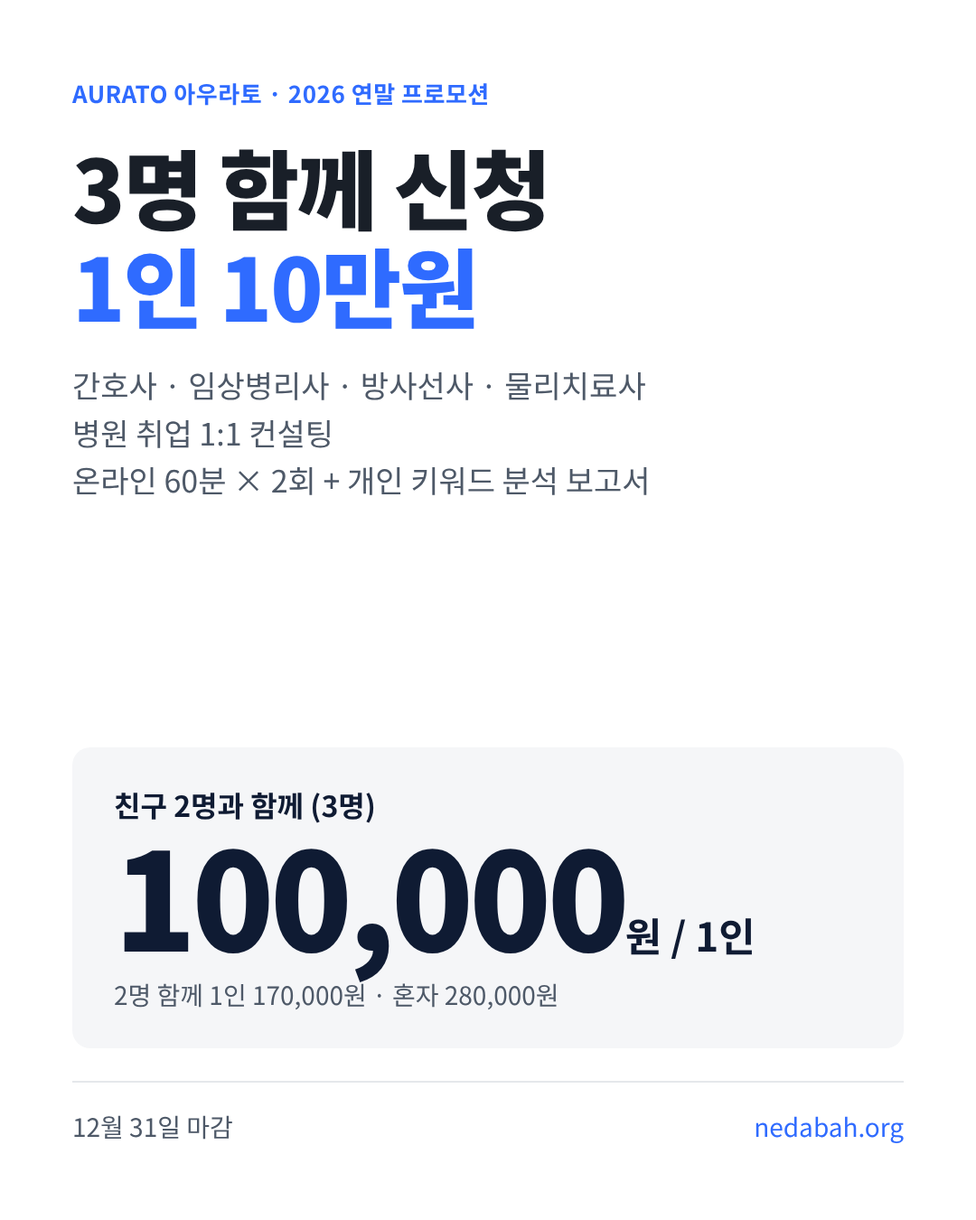
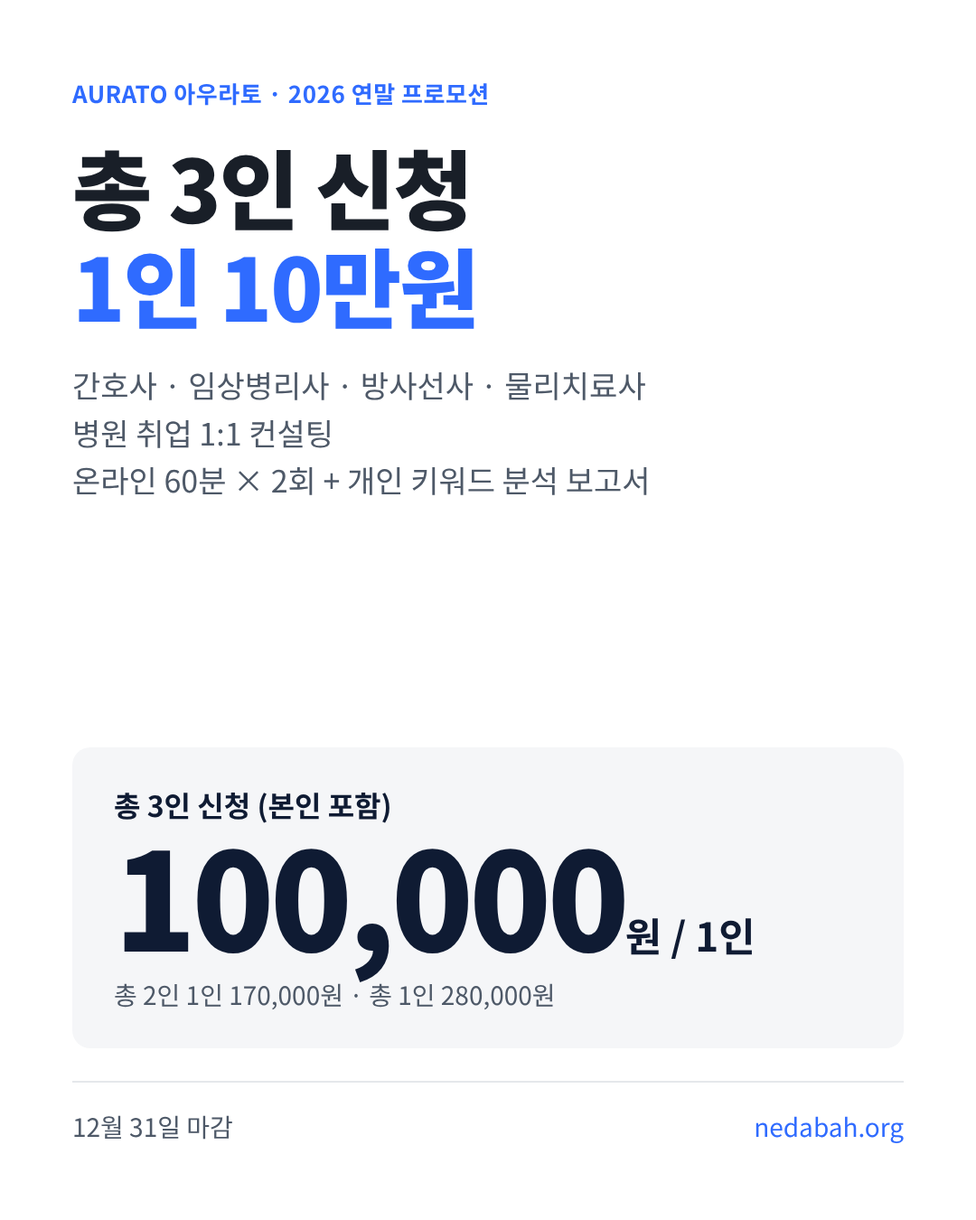
가격 표기를 총 1인·총 2인·총 3인으로 통일, 수입 전략 분석 문서 (#43)
- 모든 페이지·신청서·이미지의 가격 단계 표기를 '총 N인 신청'으로 통일하고 본인 포함 인원임을 명시
- docs/수입-전략-2026-11.md: 단계별 시간당 수입, 총 3인 합계가 총 2인보다 적은 문제,
  가격 조정안, 3단 상품 구성, 기관 중심 운영, 월 수입 시나리오
- tools/check-numbers.py: 바뀐 표기에 맞게 패턴 수정

Claude-Session: https://claude.ai/code/session_01SrQpoat8LbiUAsr2rLYRo8

Changed region(s): [[0.0611, 0.1244, 0.5806, 0.1867], [0.1222, 0.8089, 0.5806, 0.84], [0.1222, 0.6533, 0.3972, 0.6844]]

diff --git a/index.html b/index.html
@@ -4,7 +4,7 @@
 <meta charset="UTF-8">
 <meta name="viewport" content="width=device-width, initial-scale=1.0">
 <title>아우라토 AURATO | 병원 취업 1:1 컨설팅 — 자기소개서 분석·면접 연습 2회, 보고서 제공</title>
-<meta name="description" content="아우라토(AURATO)는 간호사·임상병리사·방사선사·물리치료사 등 병원 취업을 위한 온라인 1:1 컨설팅입니다. 자기소개서 분석, 면접 연습, 키워드 분석 보고서까지 2회(2시간). 연말 프로모션 3명 함께 1인 10만원. 운영 네다바웨이.">
+<meta name="description" content="아우라토(AURATO)는 간호사·임상병리사·방사선사·물리치료사 등 병원 취업을 위한 온라인 1:1 컨설팅입니다. 자기소개서 분석, 면접 연습, 키워드 분석 보고서까지 2회(2시간). 연말 프로모션 총 3인 신청 1인 10만원. 운영 네다바웨이.">
 <meta name="keywords" content="아우라토, AURATO, 병원 취업 컨설팅, 간호사 자소서 첨삭, 간호사 면접 컨설팅, 임상병리사 취업, 방사선사 취업, 물리치료사 취업, 국시 후 취업 준비, 네다바웨이">
 <link rel="canonical" href="https://nedabah.org/">
 <link rel="alternate" hreflang="ko" href="https://nedabah.org/">
@@ -14,7 +14,7 @@
 <meta property="og:site_name" content="아우라토 AURATO">
 <meta property="og:url" content="https://nedabah.org/">
 <meta property="og:title" content="아우라토 AURATO — 병원 취업 1:1 컨설팅">
-<meta property="og:description" content="온라인 1:1 2회 + 키워드 분석 보고서. 연말 프로모션 3명 함께 1인 10만원, 12월 31일까지.">
+<meta property="og:description" content="온라인 1:1 2회 + 키워드 분석 보고서. 연말 프로모션 총 3인 신청 1인 10만원, 12월 31일까지.">
 <meta property="og:image" content="https://nedabah.org/og/consulting.png">
 <meta property="og:image:width" content="1200">
 <meta property="og:image:height" content="630">
@@ -39,11 +39,11 @@
 {"@context":"https://schema.org","@type":"FAQPage","mainEntity":[
  {"@type":"Question","name":"아우라토는 무엇인가요?","acceptedAnswer":{"@type":"Answer","text":"병원 취업을 준비하는 간호사·임상병리사·방사선사·물리치료사 등을 위한 온라인 1:1 컨설팅입니다. 자기소개서를 분석하고 수정한 뒤 면접 연습까지 2회(2시간) 진행하고, 키워드 분석 보고서를 드립니다. 네다바웨이가 운영합니다."}},
  {"@type":"Question","name":"시중 첨삭과 무엇이 다른가요?","acceptedAnswer":{"@type":"Answer","text":"문항 단위로 글만 고치는 첨삭과 달리, 지원서 전체를 지원 기관 자료와 비교해 결함을 찾고, 화상으로 60분씩 2회 진행하며, 면접 연습과 키워드 분석 보고서까지 포함합니다."}},
- {"@type":"Question","name":"비용은 얼마인가요?","acceptedAnswer":{"@type":"Answer","text":"2026년 12월 31일까지 연말 프로모션으로 3명이 함께 신청하면 1인 10만원, 2명은 1인 17만원, 혼자는 28만원입니다(2회·2시간, 보고서 포함). 계좌이체로 결제하고 현금영수증을 발행합니다."}}]}
+ {"@type":"Question","name":"비용은 얼마인가요?","acceptedAnswer":{"@type":"Answer","text":"2026년 12월 31일까지 연말 프로모션으로 총 3인 신청은 1인 10만원, 총 2인 신청은 1인 17만원, 총 1인 신청은 28만원입니다(2회·2시간, 보고서 포함). 계좌이체로 결제하고 현금영수증을 발행합니다."}}]}
 </script>
 </head>
 <body>
-<div class="ribbon"><b>연말 프로모션</b> · 온라인 1:1 2회 + 키워드 분석 보고서 · 3명 함께 <b>1인 10만원</b> · <span id="promoLeft">12월 31일 마감</span></div>
+<div class="ribbon"><b>연말 프로모션</b> · 온라인 1:1 2회 + 키워드 분석 보고서 · 총 3인 신청 <b>1인 10만원</b> · <span id="promoLeft">12월 31일 마감</span></div>
 <header class="cbar">
   <div class="w">
     <a class="brand" href="/" aria-label="AURATO 아우라토 홈">AURA<b>TO</b><small>아우라토 · 취업 컨설팅</small></a>
@@ -81,9 +81,9 @@
         </div>
         <div><label>신청 방식</label>
           <div class="pick">
-            <label><input type="radio" name="plan" value="3명 함께 · 1인 100,000원" data-memo="요금" checked><span>3명 10만원</span></label>
-            <label><input type="radio" name="plan" value="2명 함께 · 1인 170,000원" data-memo="요금"><span>2명 17만원</span></label>
-            <label><input type="radio" name="plan" value="혼자 · 280,000원" data-memo="요금"><span>혼자 28만원</span></label>
+            <label><input type="radio" name="plan" value="총 3인 신청 · 1인 100,000원" data-memo="요금" checked><span>총 3인 · 1인 10만원</span></label>
+            <label><input type="radio" name="plan" value="총 2인 신청 · 1인 170,000원" data-memo="요금"><span>총 2인 · 1인 17만원</span></label>
+            <label><input type="radio" name="plan" value="총 1인 신청 · 280,000원" data-memo="요금"><span>총 1인 · 28만원</span></label>
           </div>
         </div>
         <label class="agree"><input type="checkbox" required data-memo="개인정보 동의"> 상담·일정 안내·현금영수증 발행을 위해 이름과 휴대폰을 수집하는 데 동의합니다. 종료 후 1년 보관 뒤 파기합니다. <a href="/privacy/" target="_blank" rel="noopener">처리방침</a></label>
@@ -197,7 +197,7 @@
     <div class="grid4">
       <div class="card"><div class="big">전 문항</div><h3>문항별 완성본</h3><p>제출할 문항 전체를 수정합니다. 문항 수로 가격을 매기지 않습니다.</p></div>
       <div class="card"><div class="big">230,000원</div><h3>시중 조합가(계산 예시)</h3><p>문항 첨삭 10개(개당 15,000원)와 모의면접 60분(30분 40,000원)을 따로 구매한 금액.</p></div>
-      <div class="card"><div class="big">100,000원</div><h3>아우라토 3명 신청가</h3><p>문항 10개 기준 시중 조합가보다 130,000원 낮습니다(57%).</p></div>
+      <div class="card"><div class="big">100,000원</div><h3>아우라토 총 3인 신청가</h3><p>문항 10개 기준 시중 조합가보다 130,000원 낮습니다(57%).</p></div>
       <div class="card"><div class="big">1:1</div><h3>가격과 관계없이 같은 진행</h3><p>10만원 신청자도 각자 1:1로 60분씩 2회 진행하고 같은 구성의 보고서를 받습니다.</p></div>
     </div>
     <p class="src">시중 단가는 2026년 11월 재능마켓 공개 판매 페이지 기준입니다. <a href="/consulting/process/">실제 진행 과정과 계산 근거 보기</a></p>
@@ -208,19 +208,19 @@
   <div class="w">
     <div class="lab">Year-End Promotion · ~2026.12.31</div>
     <h2>연말 프로모션 가격</h2>
-    <p class="sub">2회·2시간, 키워드 분석 보고서 포함. 함께 신청한 친구도 같은 금액입니다. 3명이 함께 신청하면 혼자 신청할 때보다 1인당 180,000원이 낮습니다. 프로모션 가격은 2026년 12월 31일 신청분까지 적용합니다. 컨설팅은 각자 1:1로 진행합니다.</p>
+    <p class="sub">2회·2시간, 키워드 분석 보고서 포함. 인원은 본인을 포함한 총 신청 인원입니다. 함께 신청한 친구도 같은 금액입니다. 총 3인으로 신청하면 총 1인으로 신청할 때보다 1인당 180,000원이 낮습니다. 프로모션 가격은 2026년 12월 31일 신청분까지 적용합니다. 컨설팅은 각자 1:1로 진행합니다.</p>
     <h3 style="margin:.2rem 0 .2rem">시중 가격과 비교</h3>
-    <div class="bars" role="img" aria-label="시중 가격 비교: 시중 1:1 자소서 첨삭 과정 30만원, 시중 문항 첨삭 10개와 모의면접 60분 조합 23만원, 시중 간호 전문 1:1 첨삭 8만 8천원(면접 미포함), 아우라토 3명 신청 10만원">
+    <div class="bars" role="img" aria-label="시중 가격 비교: 시중 1:1 자소서 첨삭 과정 30만원, 시중 문항 첨삭 10개와 모의면접 60분 조합 23만원, 시중 간호 전문 1:1 첨삭 8만 8천원(면접 미포함), 아우라토 총 3인 신청 1인 10만원">
       <div class="bar"><div class="n">취업학원 1:1 자소서 과정<small>면접 미포함</small></div><div class="t"><i style="width:100%"></i><b>300,000원</b></div></div>
       <div class="bar"><div class="n">문항 첨삭 10개 + 모의면접 60분<small>재능마켓에서 따로 구매</small></div><div class="t"><i style="width:76.7%"></i><b>230,000원</b></div></div>
-      <div class="bar us"><div class="n">아우라토 3명 함께 신청<small>화상 2회 + 면접 연습 + 개인 키워드 분석 보고서</small></div><div class="t"><i style="width:33.3%"></i><b>100,000원</b></div></div>
+      <div class="bar us"><div class="n">아우라토 총 3인 신청<small>화상 2회 + 면접 연습 + 개인 키워드 분석 보고서</small></div><div class="t"><i style="width:33.3%"></i><b>100,000원</b></div></div>
     </div>
     <p><span class="save">시중 조합가보다 130,000원 낮음(57%)</span> <span class="save" style="background:var(--ink)">취업학원 과정보다 200,000원 낮음(67%)</span></p>
     <p class="src">시중 가격은 2026년 11월 각 서비스의 공개 판매 페이지 표시가입니다. 문항 첨삭 개당 15,000원(800자 기준), 모의면접 30분 40,000원, 취업학원 1:1 자소서 컨설팅 300,000원. 판매자와 조건에 따라 다릅니다.</p>
     <div class="tickets">
-      <div class="tk"><div class="who">혼자 신청</div><div class="now">280,000<small>원</small></div><ul><li>2회·2시간 1:1</li><li>키워드 분석 보고서</li></ul><a class="btn g" href="#start">신청하기</a></div>
-      <div class="tk"><div class="who">친구 1명과 함께 (2명)</div><div class="now">170,000<small>원 / 1인</small></div><span class="off">혼자 신청보다 110,000원 낮음(39%)</span><ul><li>2명 모두 같은 금액</li><li>각자 1:1, 각자 보고서</li></ul><a class="btn g" href="#start">신청하기</a></div>
-      <div class="tk best"><span class="tag">BEST · 최저가</span><div class="who">친구 2명과 함께 (3명)</div><div class="now">100,000<small>원 / 1인</small></div><span class="off">혼자 신청보다 180,000원 낮음(64%)</span><ul><li>3명 모두 같은 금액</li><li>각자 1:1, 각자 보고서</li></ul><a class="btn p" href="#start">3명이 함께 신청</a></div>
+      <div class="tk"><div class="who">총 1인 신청</div><div class="now">280,000<small>원</small></div><ul><li>2회·2시간 1:1</li><li>키워드 분석 보고서</li></ul><a class="btn g" href="#start">신청하기</a></div>
+      <div class="tk"><div class="who">총 2인 신청</div><div class="now">170,000<small>원 / 1인</small></div><span class="off">총 1인 신청보다 110,000원 낮음(39%)</span><ul><li>2명 모두 같은 금액</li><li>각자 1:1, 각자 보고서</li></ul><a class="btn g" href="#start">신청하기</a></div>
+      <div class="tk best"><span class="tag">BEST · 최저가</span><div class="who">총 3인 신청</div><div class="now">100,000<small>원 / 1인</small></div><span class="off">총 1인 신청보다 180,000원 낮음(64%)</span><ul><li>3명 모두 같은 금액</li><li>각자 1:1, 각자 보고서</li></ul><a class="btn p" href="#start">총 3인으로 신청</a></div>
     </div>
     <div style="text-align:center;margin-top:1rem"><button type="button" class="btn g" data-share style="cursor:pointer;font:inherit;font-weight:800">함께 신청할 친구에게 이 페이지 보내기</button> <span data-share-done hidden style="margin-left:.5rem;color:var(--ok);font-weight:700">링크를 복사했습니다</span></div>
     <div class="count" data-countdown aria-label="프로모션 마감까지 남은 시간"><div><b data-d>--</b><small>DAYS</small></div><div><b data-h>--</b><small>HRS</small></div><div><b data-m>--</b><small>MIN</small></div><div><b data-s>--</b><small>SEC</small></div></div>
@@ -259,7 +259,7 @@
 <div id="promoPop" role="dialog" aria-modal="true" aria-labelledby="promoPopTitle" style="position:fixed;inset:0;z-index:9999;background:rgba(8,14,30,.62);display:none;place-items:center;padding:16px">
   <div style="position:relative;width:min(400px,100%);max-height:92vh;overflow:auto;background:#fff;border-radius:18px;box-shadow:0 30px 70px rgba(0,0,0,.35)">
     <button type="button" data-pop-close aria-label="닫기" style="position:absolute;top:10px;right:10px;width:36px;height:36px;border:0;border-radius:50%;background:rgba(255,255,255,.9);font-size:20px;cursor:pointer;z-index:2">×</button>
-    <a href="#start" data-pop-go><img src="/og/promo-1080x1350.png" width="1080" height="1350" loading="lazy" alt="아우라토 연말 프로모션: 3명 함께 신청 시 1인 10만원, 12월 31일 마감" style="display:block;width:100%;height:auto"></a>
+    <a href="#start" data-pop-go><img src="/og/promo-1080x1350.png" width="1080" height="1350" loading="lazy" alt="아우라토 연말 프로모션: 총 3인 신청 시 1인 10만원, 12월 31일 마감" style="display:block;width:100%;height:auto"></a>
     <div style="padding:14px 16px 16px">
       <p id="promoPopTitle" style="margin:0 0 10px;font-weight:800;color:#0f1b33">2026 연말 프로모션 · <span data-left>12월 31일 마감</span></p>
       <div style="display:flex;gap:8px">
@@ -271,7 +271,7 @@
   </div>
 </div>
 <div id="promoCard" hidden style="position:fixed;left:10px;right:10px;bottom:70px;z-index:55;background:#191f28;color:#fff;border-radius:14px;padding:12px 44px 12px 14px;box-shadow:0 12px 30px rgba(0,0,0,.3);font-size:.92rem">
-  <b style="color:#8fb2ff">연말 프로모션</b> 3명 함께 1인 10만원 · <span data-left>12/31 마감</span> <a href="#start" style="color:#fff;font-weight:800;margin-left:4px">신청 →</a>
+  <b style="color:#8fb2ff">연말 프로모션</b> 총 3인 신청 1인 10만원 · <span data-left>12/31 마감</span> <a href="#start" style="color:#fff;font-weight:800;margin-left:4px">신청 →</a>
   <button type="button" data-card-close aria-label="닫기" style="position:absolute;top:6px;right:8px;width:30px;height:30px;border:0;background:transparent;color:#fff;font-size:20px;cursor:pointer">×</button>
 </div>
 

diff --git a/consulting/index.html b/consulting/index.html
@@ -4,14 +4,14 @@
 <meta charset="UTF-8">
 <meta name="viewport" content="width=device-width, initial-scale=1.0">
 <title>아우라토 AURATO | 병원·보건의료 취업 1:1 컨설팅 안내</title>
-<meta name="description" content="간호사·임상병리사·방사선사·물리치료사 등 병원 전 직종 취업을 위한 1:1 컨설팅. 전문 컨설턴트의 합격 전략, AI 데이터 분석, 온라인 2회(2시간), 마지막 키워드 분석 보고서. 연말 프로모션: 친구 2명과 함께 1인 10만원.">
+<meta name="description" content="간호사·임상병리사·방사선사·물리치료사 등 병원 전 직종 취업을 위한 1:1 컨설팅. 전문 컨설턴트의 합격 전략, AI 데이터 분석, 온라인 2회(2시간), 마지막 키워드 분석 보고서. 연말 프로모션: 총 3인 신청 시 1인 10만원.">
 <meta name="keywords" content="아우라토, AURATO, 병원 취업 컨설팅, 간호사 자소서, 임상병리사 취업, 방사선사 취업, 물리치료사 취업, 상급종합병원 자기소개서, 대학병원 면접, 공공기관 보건직 면접, 전문대 보건계열 취업">
 <link rel="canonical" href="https://nedabah.org/consulting/">
 <meta property="og:type" content="website">
 <meta property="og:site_name" content="아우라토 AURATO">
 <meta property="og:url" content="https://nedabah.org/consulting/">
 <meta property="og:title" content="아우라토 — 병원·보건의료 취업 1:1 컨설팅">
-<meta property="og:description" content="연말 프로모션: 2회·2시간 친구 2명과 함께 1인 10만원. 12월 31일까지.">
+<meta property="og:description" content="연말 프로모션: 2회·2시간 총 3인 신청 시 1인 10만원. 12월 31일까지.">
 <meta property="og:image" content="https://nedabah.org/og/consulting.png">
 <meta property="og:image:width" content="1200">
 <meta property="og:image:height" content="630">
@@ -44,7 +44,7 @@
 <script type="application/ld+json">
 {"@context":"https://schema.org","@type":"FAQPage","mainEntity":[
  {"@type":"Question","name":"어떤 직종이 신청할 수 있나요?","acceptedAnswer":{"@type":"Answer","text":"병원에서 일하는 모든 직종입니다. 간호사, 임상병리사, 방사선사, 물리치료사, 작업치료사, 치과위생사, 응급구조사, 보건행정·원무, 보건의료정보관리사 등이 신청합니다."}},
- {"@type":"Question","name":"비용은 얼마인가요?","acceptedAnswer":{"@type":"Answer","text":"정가는 2회(2시간) 80만원입니다. 2026년 12월 31일까지 혼자 신청하면 28만원, 친구 1명과 함께 신청하면 1인 17만원, 친구 2명과 함께 신청하면 1인 10만원입니다. 함께 신청한 친구도 같은 금액입니다. 3명이 함께 신청하면 혼자 신청할 때보다 1인당 180,000원이 낮습니다. 프로모션 가격은 2026년 12월 31일 신청분까지 적용합니다."}},
+ {"@type":"Question","name":"비용은 얼마인가요?","acceptedAnswer":{"@type":"Answer","text":"정가는 2회(2시간) 80만원입니다. 2026년 12월 31일까지 총 1인 신청은 28만원, 총 2인 신청은 1인 17만원, 총 3인 신청은 1인 10만원입니다. 함께 신청한 친구도 같은 금액입니다. 총 3인으로 신청하면 총 1인으로 신청할 때보다 1인당 180,000원이 낮습니다. 프로모션 가격은 2026년 12월 31일 신청분까지 적용합니다."}},
  {"@type":"Question","name":"결제는 어떻게 하나요?","acceptedAnswer":{"@type":"Answer","text":"네다바웨이 명의 계좌로 이체합니다. 신청 확인 후 계좌를 문자로 안내하고, 현금영수증을 발행합니다."}},
  {"@type":"Question","name":"AI가 자기소개서를 대신 써 주나요?","acceptedAnswer":{"@type":"Answer","text":"아닙니다. AI는 지원 기관의 공식 발표와 채용 공고, 공개된 합격 자기소개서를 모아 비교하는 데 씁니다. 문장은 지원자의 경험과 단어로 쓰고, 컨설턴트가 사실을 확인합니다."}},
  {"@type":"Question","name":"학원 첨삭과 무엇이 다른가요?","acceptedAnswer":{"@type":"Answer","text":"문항 단위로 문장만 고치는 첨삭과 달리, 지원서 전체를 지원 기관 자료·공개 합격 자기소개서와 비교해 문제점을 찾습니다. 수정 방향과 수정 전·후를 키워드 분석 보고서로 제공하고, 2회차에 면접 연습을 진행합니다."}}]}
@@ -52,7 +52,7 @@
 </head>
 <body>
 
-<div class="ribbon"><b>연말 프로모션</b> · 2회·2시간 친구 2명과 함께 <b>1인 10만원</b> · <span id="promoLeft">12월 31일 마감</span></div>
+<div class="ribbon"><b>연말 프로모션</b> · 2회·2시간 총 3인 신청 <b>1인 10만원</b> · <span id="promoLeft">12월 31일 마감</span></div>
 <header class="cbar">
   <div class="w">
     <a class="brand" href="/" aria-label="AURATO 아우라토 홈">AURA<b>TO</b><small>아우라토 · 취업 컨설팅</small></a>
@@ -247,19 +247,19 @@
   <div class="w">
     <div class="lab">Year-End Promotion · ~2026.12.31</div>
     <h2>연말 프로모션 가격</h2>
-    <p class="sub">2회·2시간, 키워드 분석 보고서 포함. 정가 800,000원. 함께 신청한 친구도 같은 금액입니다.</p>
+    <p class="sub">2회·2시간, 키워드 분석 보고서 포함. 인원은 본인을 포함한 총 신청 인원입니다. 정가 800,000원. 함께 신청한 친구도 같은 금액입니다.</p>
     <h3 style="margin:.2rem 0 .2rem">시중 가격과 비교</h3>
-    <div class="bars" role="img" aria-label="시중 가격 비교: 시중 1:1 자소서 첨삭 과정 30만원, 시중 문항 첨삭 10개와 모의면접 60분 조합 23만원, 시중 간호 전문 1:1 첨삭 8만 8천원(면접 미포함), 아우라토 3명 신청 10만원">
+    <div class="bars" role="img" aria-label="시중 가격 비교: 시중 1:1 자소서 첨삭 과정 30만원, 시중 문항 첨삭 10개와 모의면접 60분 조합 23만원, 시중 간호 전문 1:1 첨삭 8만 8천원(면접 미포함), 아우라토 총 3인 신청 1인 10만원">
       <div class="bar"><div class="n">취업학원 1:1 자소서 과정<small>면접 미포함</small></div><div class="t"><i style="width:100%"></i><b>300,000원</b></div></div>
       <div class="bar"><div class="n">문항 첨삭 10개 + 모의면접 60분<small>재능마켓에서 따로 구매</small></div><div class="t"><i style="width:76.7%"></i><b>230,000원</b></div></div>
-      <div class="bar us"><div class="n">아우라토 3명 함께 신청<small>화상 2회 + 면접 연습 + 개인 키워드 분석 보고서</small></div><div class="t"><i style="width:33.3%"></i><b>100,000원</b></div></div>
+      <div class="bar us"><div class="n">아우라토 총 3인 신청<small>화상 2회 + 면접 연습 + 개인 키워드 분석 보고서</small></div><div class="t"><i style="width:33.3%"></i><b>100,000원</b></div></div>
     </div>
     <p><span class="save">시중 조합가보다 130,000원 낮음(57%)</span> <span class="save" style="background:var(--ink)">취업학원 과정보다 200,000원 낮음(67%)</span></p>
     <p class="src">시중 가격은 2026년 11월 각 서비스의 공개 판매 페이지 표시가입니다. 문항 첨삭 개당 15,000원(800자 기준), 모의면접 30분 40,000원, 취업학원 1:1 자소서 컨설팅 300,000원. 판매자와 조건에 따라 다릅니다.</p>
     <div class="tickets">
-      <div class="tk"><div class="who">혼자 신청</div><div class="now">280,000<small>원</small></div><ul><li>2회·2시간 1:1</li><li>키워드 분석 보고서</li></ul><a class="btn g" href="#apply" data-plan="혼자 · 280,000원">신청하기</a></div>
-      <div class="tk"><div class="who">친구 1명과 함께 (2명)</div><div class="now">170,000<small>원 / 1인</small></div><span class="off">혼자 신청보다 110,000원 낮음(39%)</span><ul><li>2명 모두 같은 금액</li><li>각자 1:1 진행</li><li>각자 키워드 분석 보고서</li></ul><a class="btn g" href="#apply" data-plan="친구 1명과 함께(2명) · 1인 170,000원">신청하기</a></div>
-      <div class="tk best"><span class="tag">BEST · 최저가</span><div class="who">친구 2명과 함께 (3명)</div><div class="now">100,000<small>원 / 1인</small></div><span class="off">혼자 신청보다 180,000원 낮음(64%)</span><ul><li>3명 모두 같은 금액</li><li>각자 1:1 진행</li><li>각자 키워드 분석 보고서</li></ul><a class="btn p" href="#apply" data-plan="친구 2명과 함께(3명) · 1인 100,000원">3명이 함께 신청</a></div>
+      <div class="tk"><div class="who">총 1인 신청</div><div class="now">280,000<small>원</small></div><ul><li>2회·2시간 1:1</li><li>키워드 분석 보고서</li></ul><a class="btn g" href="#apply" data-plan="총 1인 신청 · 280,000원">신청하기</a></div>
+      <div class="tk"><div class="who">총 2인 신청</div><div class="now">170,000<small>원 / 1인</small></div><span class="off">총 1인 신청보다 110,000원 낮음(39%)</span><ul><li>2명 모두 같은 금액</li><li>각자 1:1 진행</li><li>각자 키워드 분석 보고서</li></ul><a class="btn g" href="#apply" data-plan="총 2인 신청 · 1인 170,000원">신청하기</a></div>
+      <div class="tk best"><span class="tag">BEST · 최저가</span><div class="who">총 3인 신청</div><div class="now">100,000<small>원 / 1인</small></div><span class="off">총 1인 신청보다 180,000원 낮음(64%)</span><ul><li>3명 모두 같은 금액</li><li>각자 1:1 진행</li><li>각자 키워드 분석 보고서</li></ul><a class="btn p" href="#apply" data-plan="총 3인 신청 · 1인 100,000원">총 3인으로 신청</a></div>
     </div>
     <div style="text-align:center;margin-top:1rem"><button type="button" class="btn g" data-share style="cursor:pointer;font:inherit;font-weight:800">함께 신청할 친구에게 이 페이지 보내기</button> <span data-share-done hidden style="margin-left:.5rem;color:var(--ok);font-weight:700">링크를 복사했습니다</span></div>
     <div class="count" data-countdown aria-label="프로모션 마감까지 남은 시간"><div><b data-d>--</b><small>DAYS</small></div><div><b data-h>--</b><small>HRS</small></div><div><b data-m>--</b><small>MIN</small></div><div><b data-s>--</b><small>SEC</small></div></div>
@@ -313,7 +313,7 @@
         <div><label for="s-block">가장 막히는 것 한 가지</label><input id="s-block" data-memo="막히는 점" placeholder="예: 지원동기를 병원마다 다르게 못 쓰겠다"></div>
       </details>
       <div class="row">
-        <div><label for="c-plan">신청 방식</label><select id="c-plan" data-memo="요금"><option>친구 2명과 함께(3명) · 1인 100,000원</option><option>친구 1명과 함께(2명) · 1인 170,000원</option><option>혼자 · 280,000원</option></select></div>
+        <div><label for="c-plan">신청 방식</label><select id="c-plan" data-memo="요금"><option>총 3인 신청 · 1인 100,000원</option><option>총 2인 신청 · 1인 170,000원</option><option>총 1인 신청 · 280,000원</option></select></div>
         <div><label for="c-ref">함께 신청한 친구 이름</label><input id="c-ref" data-memo="함께 신청한 친구" placeholder="예: 김○○, 이○○"></div>
       </div>
       <label class="agree"><input type="checkbox" required data-memo="개인정보 동의"> 상담·일정 안내·입금 확인·현금영수증 발행을 위해 이름, 휴대폰, 학교 정보를 수집하는 데 동의합니다. 컨설팅 종료 후 1년간 보관하고 파기합니다.</label>

diff --git a/consulting/process/index.html b/consulting/process/index.html
@@ -4,7 +4,7 @@
 <meta charset="UTF-8">
 <meta name="viewport" content="width=device-width, initial-scale=1.0">
 <title>실제 진행 과정과 가격 비교 | 사전 분석, 화상 2회, 개인 키워드 분석 보고서 — 아우라토 AURATO</title>
-<meta name="description" content="아우라토 1:1 취업 컨설팅의 실제 진행 과정과 시중 서비스 가격 비교입니다. 자료 분량과 완성본 수는 지원자의 지원 기관 수와 문항 수에 따라 다릅니다. 문항 10개 기준 시중 조합가는 23만원이며, 아우라토 3명 신청가는 1인 10만원입니다.">
+<meta name="description" content="아우라토 1:1 취업 컨설팅의 실제 진행 과정과 시중 서비스 가격 비교입니다. 자료 분량과 완성본 수는 지원자의 지원 기관 수와 문항 수에 따라 다릅니다. 문항 10개 기준 시중 조합가는 23만원이며, 아우라토 총 3인 신청가는 1인 10만원입니다.">
 <link rel="canonical" href="https://nedabah.org/consulting/process/">
 <meta property="og:type" content="article">
 <meta property="og:site_name" content="아우라토 AURATO">
@@ -24,7 +24,7 @@
 </script>
 </head>
 <body>
-<div class="ribbon">🎁 <b>연말 프로모션</b> · 3명 함께 <b>1인 10만원</b> · <span id="promoLeft">12월 31일 마감</span></div>
+<div class="ribbon">🎁 <b>연말 프로모션</b> · 총 3인 신청 <b>1인 10만원</b> · <span id="promoLeft">12월 31일 마감</span></div>
 <header class="cbar"><div class="w">
   <a class="brand" href="/" aria-label="AURATO 아우라토 홈">AURA<b>TO</b><small>아우라토 · 취업 컨설팅</small></a>
   <nav><a href="/consulting/">컨설팅 안내</a><a href="/consulting/#price">가격</a><a href="/consulting/after-exam/">국시 직후</a><a href="/colleges/">학교·기관</a><a class="go" href="/#start">1분 신청</a></nav>
@@ -78,10 +78,10 @@
   <div class="lab">Price Comparison</div>
   <h2>같은 분량을 시중에서 구매할 때의 가격</h2>
   <p class="sub">계산 예시입니다. 문항 10개를 제출하고 면접 연습 60분을 받는 경우를 시중 단가로 계산했습니다. 실제 금액은 지원자의 문항 수에 따라 달라집니다.</p>
-  <div class="bars" role="img" aria-label="시중 가격 비교: 시중 1:1 자소서 첨삭 과정 30만원, 시중 문항 첨삭 10개와 모의면접 60분 조합 23만원, 시중 간호 전문 1:1 첨삭 8만 8천원(면접 미포함), 아우라토 3명 신청 10만원">
+  <div class="bars" role="img" aria-label="시중 가격 비교: 시중 1:1 자소서 첨삭 과정 30만원, 시중 문항 첨삭 10개와 모의면접 60분 조합 23만원, 시중 간호 전문 1:1 첨삭 8만 8천원(면접 미포함), 아우라토 총 3인 신청 1인 10만원">
       <div class="bar"><div class="n">취업학원 1:1 자소서 과정<small>면접 미포함</small></div><div class="t"><i style="width:100%"></i><b>300,000원</b></div></div>
       <div class="bar"><div class="n">문항 첨삭 10개 + 모의면접 60분<small>재능마켓에서 따로 구매</small></div><div class="t"><i style="width:76.7%"></i><b>230,000원</b></div></div>
-      <div class="bar us"><div class="n">아우라토 3명 함께 신청<small>화상 2회 + 면접 연습 + 개인 키워드 분석 보고서</small></div><div class="t"><i style="width:33.3%"></i><b>100,000원</b></div></div>
+      <div class="bar us"><div class="n">아우라토 총 3인 신청<small>화상 2회 + 면접 연습 + 개인 키워드 분석 보고서</small></div><div class="t"><i style="width:33.3%"></i><b>100,000원</b></div></div>
     </div>
     <p><span class="save">시중 조합가보다 130,000원 낮음(57%)</span> <span class="save" style="background:var(--ink)">취업학원 과정보다 200,000원 낮음(67%)</span></p>
     
@@ -91,12 +91,12 @@
       <tr><td>자기소개서 문항 첨삭</td><td>문항당 15,000원</td><td>10문항</td><td>150,000원</td></tr>
       <tr><td>모의면접</td><td>30분 40,000원</td><td>60분</td><td>80,000원</td></tr>
       <tr><td><b>시중 조합 합계</b></td><td></td><td></td><td><b>230,000원</b></td></tr>
-      <tr><td>아우라토 · 혼자 신청</td><td colspan="2">화상 60분 × 2회, 개인 키워드 분석 보고서 포함</td><td class="us">280,000원</td></tr>
-      <tr><td>아우라토 · 3명 함께 신청</td><td colspan="2">같은 구성, 1인 금액</td><td class="us"><b>100,000원</b></td></tr>
+      <tr><td>아우라토 · 총 1인 신청</td><td colspan="2">화상 60분 × 2회, 개인 키워드 분석 보고서 포함</td><td class="us">280,000원</td></tr>
+      <tr><td>아우라토 · 총 3인 신청</td><td colspan="2">같은 구성, 1인 금액</td><td class="us"><b>100,000원</b></td></tr>
     </tbody>
   </table>
   <div class="grid3" style="margin-top:16px">
-    <div class="card"><div class="big">130,000원</div><h3>시중 조합가와의 차이</h3><p>문항 10개 기준으로, 3명 함께 신청 가격은 시중 조합 합계보다 130,000원 낮습니다(57%).</p></div>
+    <div class="card"><div class="big">130,000원</div><h3>시중 조합가와의 차이</h3><p>문항 10개 기준으로, 총 3인 신청 가격은 시중 조합 합계보다 130,000원 낮습니다(57%).</p></div>
     <div class="card"><div class="big">문항 수 무관</div><h3>아우라토 가격 기준</h3><p>아우라토는 문항 수로 가격을 매기지 않습니다. 제출할 문항 전체를 같은 가격에 수정합니다. 문항이 많을수록 시중 조합가와의 차이가 커집니다.</p></div>
     <div class="card"><div class="big">50,000원</div><h3>시간당 금액</h3><p>10만원을 화상 2시간으로 나눈 값입니다. 사전 분석과 자료 작성 시간은 포함하지 않았습니다.</p></div>
   </div>
@@ -107,8 +107,8 @@
   <div class="lab">Quality</div>
   <h2>가격이 낮은 이유와 품질 기준</h2>
   <div class="grid3">
-    <div class="card"><h3>가격이 낮은 이유</h3><ul><li>화상으로 진행해 공간 임차비와 이동 비용이 없습니다.</li><li>3명이 함께 신청하면 일정 조율과 기관 자료 조사를 묶어서 진행합니다.</li><li>연말 프로모션 가격이며 2026년 12월 31일 신청분까지 적용합니다. 정가는 2회 800,000원입니다.</li></ul></div>
-    <div class="card"><h3>가격과 관계없이 같은 것</h3><ul><li>10만원 신청자와 28만원 신청자의 진행 시간, 자료, 보고서 구성이 같습니다.</li><li>컨설팅은 3명이 함께 받지 않습니다. 각자 1:1로 60분씩 2회 진행합니다.</li><li>2026년에 130명을 진행한 컨설턴트가 대학 프로그램과 같은 방식으로 진행합니다.</li></ul></div>
+    <div class="card"><h3>가격이 낮은 이유</h3><ul><li>화상으로 진행해 공간 임차비와 이동 비용이 없습니다.</li><li>총 3인으로 신청하면 일정 조율과 기관 자료 조사를 묶어서 진행합니다.</li><li>연말 프로모션 가격이며 2026년 12월 31일 신청분까지 적용합니다. 정가는 2회 800,000원입니다.</li></ul></div>
+    <div class="card"><h3>가격과 관계없이 같은 것</h3><ul><li>10만원 신청자와 28만원 신청자의 진행 시간, 자료, 보고서 구성이 같습니다.</li><li>총 3인으로 신청해도 컨설팅을 함께 받지 않습니다. 각자 1:1로 60분씩 2회 진행합니다.</li><li>2026년에 130명을 진행한 컨설턴트가 대학 프로그램과 같은 방식으로 진행합니다.</li></ul></div>
     <div class="card"><h3>확인 방법</h3><ul><li>1회차 시작 전에 취소하면 전액 환불합니다.</li><li>1회차 후 취소하면 2회차 금액을 환불합니다.</li><li>자료의 기관 정보에는 출처를 표기합니다. 지원자가 직접 확인할 수 있습니다.</li><li><a href="/consulting/#report">보고서 예시</a>와 <a href="/references/">지원 기관 목록</a>을 공개합니다.</li></ul></div>
   </div>
 </div></section>

diff --git a/consulting/after-exam/index.html b/consulting/after-exam/index.html
@@ -11,7 +11,7 @@
 <meta property="og:site_name" content="아우라토 AURATO">
 <meta property="og:url" content="https://nedabah.org/consulting/after-exam/">
 <meta property="og:title" content="국가시험 다음 날부터 시작하는 취업 컨설팅 사전예약">
-<meta property="og:description" content="시험일부터 합격 발표까지 약 3주 동안 자기소개서 수정과 면접 연습을 2회 진행합니다. 12월 31일까지 사전예약 시 3명 함께 1인 10만원.">
+<meta property="og:description" content="시험일부터 합격 발표까지 약 3주 동안 자기소개서 수정과 면접 연습을 2회 진행합니다. 12월 31일까지 사전예약 시 총 3인 신청 1인 10만원.">
 <meta property="og:image" content="https://nedabah.org/og/after-exam.png">
 <meta property="og:image:width" content="1200">
 <meta property="og:image:height" content="630">
@@ -35,7 +35,7 @@
 {"@context":"https://schema.org","@type":"FAQPage","mainEntity":[
  {"@type":"Question","name":"국가시험 끝나고 언제부터 시작할 수 있나요?","acceptedAnswer":{"@type":"Answer","text":"시험이 끝난 다음 날부터 1회차를 잡을 수 있습니다. 사전예약자는 시험 종료일 저녁에 일정 안내 문자를 받습니다."}},
  {"@type":"Question","name":"왜 시험 직후에 해야 하나요?","acceptedAnswer":{"@type":"Answer","text":"시험 종료부터 합격 발표까지 약 3주가 비어 있습니다. 2026년 간호사 국가시험은 1월 23일에 시행되고 2월 12일에 합격자가 발표됐습니다. 이 기간에 자기소개서와 면접을 준비하면 발표 직후 열리는 채용에 바로 지원할 수 있습니다."}},
- {"@type":"Question","name":"사전예약 가격은 얼마인가요?","acceptedAnswer":{"@type":"Answer","text":"2026년 12월 31일까지 사전예약하면 시험이 1월 이후에 끝나도 연말 프로모션 가격이 적용됩니다. 3명이 함께 신청하면 1인 10만원, 2명은 1인 17만원, 혼자는 28만원입니다."}},
+ {"@type":"Question","name":"사전예약 가격은 얼마인가요?","acceptedAnswer":{"@type":"Answer","text":"2026년 12월 31일까지 사전예약하면 시험이 1월 이후에 끝나도 연말 프로모션 가격이 적용됩니다. 총 3인 신청은 1인 10만원, 총 2인 신청은 1인 17만원, 총 1인 신청은 28만원입니다."}},
  {"@type":"Question","name":"시험을 망쳤으면 어떻게 하나요?","acceptedAnswer":{"@type":"Answer","text":"합격 발표 전 취소는 전액 환불합니다. 1회차를 시작한 뒤에는 2회차 금액을 환불합니다."}}]}
 </script>
 </head>
@@ -118,11 +118,11 @@
   <div class="w">
     <div class="lab">Pre-booking Price</div>
     <h2>사전예약 가격(12월 31일까지)</h2>
-    <p class="sub">시험이 1월 이후에 끝나도 12월 31일까지 예약하면 아래 가격이 적용됩니다. 진행은 시험이 끝난 뒤에 합니다.</p>
+    <p class="sub">시험이 1월 이후에 끝나도 12월 31일까지 예약하면 아래 가격이 적용됩니다. 인원은 본인을 포함한 총 예약 인원입니다. 진행은 시험이 끝난 뒤에 합니다.</p>
     <div class="tickets">
-      <div class="tk"><div class="who">혼자 예약</div><div class="now">280,000<small>원</small></div><ul><li>2회·2시간 1:1</li><li>키워드 분석 보고서</li></ul><a class="btn g" href="#reserve" data-plan="혼자 · 280,000원">예약하기</a></div>
-      <div class="tk"><div class="who">같은 과 친구 1명과 (2명)</div><div class="now">170,000<small>원 / 1인</small></div><span class="off">혼자 신청보다 110,000원 낮음(39%)</span><ul><li>2명 모두 같은 금액</li><li>각자 1:1, 각자 보고서</li></ul><a class="btn g" href="#reserve" data-plan="친구 1명과 함께(2명) · 1인 170,000원">예약하기</a></div>
-      <div class="tk best"><span class="tag">BEST</span><div class="who">같은 과 친구 2명과 (3명)</div><div class="now">100,000<small>원 / 1인</small></div><span class="off">혼자 신청보다 180,000원 낮음(64%)</span><ul><li>3명 모두 같은 금액</li><li>각자 1:1, 각자 보고서</li></ul><a class="btn p" href="#reserve" data-plan="친구 2명과 함께(3명) · 1인 100,000원">3명이 함께 예약</a></div>
+      <div class="tk"><div class="who">총 1인 예약</div><div class="now">280,000<small>원</small></div><ul><li>2회·2시간 1:1</li><li>키워드 분석 보고서</li></ul><a class="btn g" href="#reserve" data-plan="총 1인 신청 · 280,000원">예약하기</a></div>
+      <div class="tk"><div class="who">총 2인 예약</div><div class="now">170,000<small>원 / 1인</small></div><span class="off">총 1인 신청보다 110,000원 낮음(39%)</span><ul><li>2명 모두 같은 금액</li><li>각자 1:1, 각자 보고서</li></ul><a class="btn g" href="#reserve" data-plan="총 2인 신청 · 1인 170,000원">예약하기</a></div>
+      <div class="tk best"><span class="tag">BEST</span><div class="who">총 3인 예약</div><div class="now">100,000<small>원 / 1인</small></div><span class="off">총 1인 신청보다 180,000원 낮음(64%)</span><ul><li>3명 모두 같은 금액</li><li>각자 1:1, 각자 보고서</li></ul><a class="btn p" href="#reserve" data-plan="총 3인 신청 · 1인 100,000원">총 3인으로 예약</a></div>
     </div>
     <div style="text-align:center;margin-top:1rem"><button type="button" class="btn g" data-share style="cursor:pointer;font:inherit;font-weight:800">함께 신청할 친구에게 이 페이지 보내기</button> <span data-share-done hidden style="margin-left:.5rem;color:var(--ok);font-weight:700">링크를 복사했습니다</span></div>
     <div class="pay">
@@ -163,7 +163,7 @@
         <div><label for="r-target">목표 기관 유형</label><select id="r-target" data-memo="목표 기관 유형"><option value="">선택</option><option>상급종합병원</option><option>대학병원·종합병원</option><option>국가·공공기관</option><option>아직 정하지 못함</option></select></div>
       </div>
       <div class="row">
-        <div><label for="c-plan">예약 방식</label><select id="c-plan" data-memo="요금"><option>친구 2명과 함께(3명) · 1인 100,000원</option><option>친구 1명과 함께(2명) · 1인 170,000원</option><option>혼자 · 280,000원</option></select></div>
+        <div><label for="c-plan">예약 방식</label><select id="c-plan" data-memo="요금"><option>총 3인 신청 · 1인 100,000원</option><option>총 2인 신청 · 1인 170,000원</option><option>총 1인 신청 · 280,000원</option></select></div>
         <div><label for="r-ref">함께 예약한 친구 이름</label><input id="r-ref" data-memo="함께 신청한 친구" placeholder="예: 김○○, 이○○"></div>
       </div>
       <div><label for="r-status">지금 자기소개서 상태</label><select id="r-status" data-memo="자소서 상태"><option value="">선택</option><option>아직 없음</option><option>초안 있음</option><option>이미 여러 곳 제출</option></select></div>

diff --git a/consult-form.js b/consult-form.js
@@ -20,7 +20,7 @@
   });
   // 프로모션 마감 카운트다운
   document.querySelectorAll('[data-share]').forEach(function(b){ b.addEventListener('click',function(){
-    var u=location.origin+'/?utm_source=share&utm_medium=friend&utm_campaign=yearend2026', t='아우라토 병원 취업 1:1 컨설팅. 3명 함께 신청하면 1인 10만원(12월 31일까지).';
+    var u=location.origin+'/?utm_source=share&utm_medium=friend&utm_campaign=yearend2026', t='아우라토 병원 취업 1:1 컨설팅. 총 3인 신청 시 1인 10만원(12월 31일까지).';
     if(navigator.share){ navigator.share({title:'아우라토 AURATO',text:t,url:u}).catch(function(){}); }
     else if(navigator.clipboard){ navigator.clipboard.writeText(t+' '+u).then(function(){ var d=b.parentNode.querySelector('[data-share-done]'); if(d) d.hidden=false; }); }
   }); });

diff --git a/references/index.html b/references/index.html
@@ -24,7 +24,7 @@
 </script>
 </head>
 <body>
-<div class="ribbon"><b>연말 프로모션</b> · 3명 함께 <b>1인 10만원</b> · <span id="promoLeft">12월 31일 마감</span></div>
+<div class="ribbon"><b>연말 프로모션</b> · 총 3인 신청 <b>1인 10만원</b> · <span id="promoLeft">12월 31일 마감</span></div>
 <header class="cbar"><div class="w">
   <a class="brand" href="/" aria-label="AURATO 아우라토 홈">AURA<b>TO</b><small>아우라토 · 취업 컨설팅</small></a>
   <nav><a href="/consulting/">컨설팅 안내</a><a href="/consulting/#price">가격</a><a href="/consulting/after-exam/">국시 직후</a><a href="/colleges/">학교·기관</a><a class="go" href="/#start">1분 신청</a></nav>

diff --git a/tools/check-numbers.py b/tools/check-numbers.py
@@ -16,7 +16,7 @@ pages=['index.html','consulting/index.html','consulting/process/index.html','con
 bad=0
 for f in pages:
     s=re.sub(r'<style.*?</style>|<script(?! type="application/ld).*?</script>|style="[^"]*"','',open(f,encoding='utf-8').read(),flags=re.S)
-    for d,p in re.findall(r'([\d,]+)원 낮(?:음|습니다)\((\d+)%\)',s):
+    for d,p in re.findall(r'([\d,]+)원(?:이)? 낮(?:음|습니다)\((\d+)%\)',s):
         if (d,int(p)) not in expected: print('불일치',f,d,p); bad+=1
     for p in re.findall(r'(\d+(?:\.\d+)?)%',s):
         if p not in ok_pct: print('미등록 퍼센트',f,p+'%'); bad+=1

diff --git a/docs/수입-전략-2026-11.md b/docs/수입-전략-2026-11.md
@@ -1,0 +1,67 @@
+# 수입 전략 분석 (2026-11-13)
+
+## 1. 현재 가격 구조의 수치
+
+| 신청 | 1인 금액 | 접수 1건의 합계 | 화상 진행 시간 | 화상 1시간당 수입 |
+|---|---|---|---|---|
+| 총 1인 | 280,000원 | 280,000원 | 2시간 | 140,000원 |
+| 총 2인 | 170,000원 | 340,000원 | 4시간 | 85,000원 |
+| 총 3인 | 100,000원 | 300,000원 | 6시간 | 50,000원 |
+
+- **문제 1: 총 3인 합계(30만원)가 총 2인 합계(34만원)보다 적습니다.** 인원과 시간은 늘어나는데 수입은 줄어듭니다.
+- **문제 2: 사전 분석과 자료 작성 시간이 빠져 있습니다.** 1인당 준비에 2시간이 든다고 가정하면 총 3인은 12시간에 30만원이므로 시간당 25,000원입니다.
+- **시장 가격(2026.11 조사)**
+  - 1:1 면접 코칭 1회: 7만~15만원
+  - 3~4회 패키지: 25만~45만원
+  - 문항 첨삭: 개당 1.5만~3만원
+  - 총 1인 28만원은 시장 가격 수준입니다. 총 3인 10만원은 시장 1회 단가 수준입니다.
+
+## 2. 권장 전략(우선순위)
+
+### ① 총 3인 가격을 1인 13만원으로 조정 (2027년 1월부터)
+- 합계 39만원이 되어 총 1인 28만원, 총 2인 34만원, 총 3인 39만원 순으로 늘어납니다.
+- 10만원은 12월 31일까지의 모집용 가격으로 끝냅니다. 사이트 표기를 "연말 프로모션"으로 유지하므로 인상 사유가 설명됩니다.
+- 시중 조합가 23만원(문항 10개 기준)보다 여전히 10만원 낮습니다.
+
+### ② 상품 3단 구성(진입, 기본, 추가)
+
+| 단계 | 상품 | 권장가 | 목적 |
+|---|---|---|---|
+| 진입 | 자기소개서 분석 1회(60분, 요약 보고서) | 9만원 | 처음 신청하는 문턱을 낮춤. 시장 1회 단가 범위(7만~15만원) 안 |
+| 기본 | 현재 2회 과정(키워드 분석 보고서) | 총 1인 28만원 / 총 2인 1인 17만원 / 총 3인 1인 13만원 | 주력 상품 |
+| 추가 | 최종 면접 대비 1회(60분) | 9만원 | 서류 합격 후 추가 구매. 준비 자료가 이미 있어 추가 준비 시간이 적음 |
+
+- 가격표에 세 가지를 나란히 두면 기본 과정이 기준이 됩니다. 선택지 사이의 비교가 선택을 바꾼다는 연구가 있습니다(Huber·Payne·Puto, 1982). 다만 매출 증가 폭을 보여주는 검증된 수치는 확보하지 못했습니다.
+
+### ③ 기관(B2B)을 수입의 중심으로
+- 개인 과정의 화상 1시간당 수입은 5만~14만원입니다. 기관 프로그램은 시간당 단가가 그보다 높습니다.
+- 개인 과정은 실적과 후기를 쌓는 통로로, 기관 계약은 수입의 중심으로 운영합니다.
+- 같은 학교에서 개인 신청이 3명 이상 들어오면 그 학교 담당 부서에 기관 운영을 제안합니다.
+- 제안 시기: 1~2월(연간 계획), 7~8월(2학기 계획), 국가시험 직후.
+
+### ④ 진행 가능 인원을 먼저 정하고 공개
+- 주당 화상 진행 가능 시간을 정합니다. 예: 주 20시간이면 주 10명입니다.
+- 가득 차면 "이번 주 마감, 다음 주 일정 안내"로 표시합니다. 실제 수치일 때만 표기합니다.
+
+### ⑤ 준비 시간 단축
+- 사전 분석 자료의 틀(목차, 표 양식, 직종별 예상 질문)을 고정해 1인당 준비 시간을 줄입니다.
+- 준비 시간이 2시간에서 1시간으로 줄면 총 3인(13만원 기준)의 시간당 수입이 32,500원에서 43,000원으로 오릅니다.
+
+## 3. 월 수입 시나리오(화상 진행 주 20시간, 월 80시간 기준)
+
+| 구성 | 월 인원 | 월 수입 |
+|---|---|---|
+| 전원 총 3인(1인 10만원) | 40명 | 4,000,000원 |
+| 전원 총 3인(1인 13만원) | 40명 | 5,200,000원 |
+| 총 1인 10명 + 총 3인 30명(13만원) | 40명 | 6,700,000원 |
+| 위 구성 + 최종 면접 추가 10건(9만원) | 40명 + 10건 | 7,600,000원 |
+
+- 준비 시간은 포함하지 않았습니다. 준비 시간을 넣으면 실제 진행 가능 인원은 이보다 적습니다.
+
+## 4. 이번에 사이트에 반영한 것
+- 가격 표기를 "총 1인 신청 / 총 2인 신청 / 총 3인 신청"으로 통일하고 "인원은 본인을 포함한 총 신청 인원"이라고 적었습니다.
+- 가격 변경(①)과 신규 상품(②)은 반영하지 않았습니다. 대표가 금액을 확정하면 반영합니다.
+
+## 5. 출처
+- 면접 코칭 시세: miso.kr 블로그(광주·창원 취업 면접 컨설팅 비용), 크몽 판매 페이지
+- 선택지 비교 효과: Huber, Payne & Puto (1982), Journal of Consumer Research
